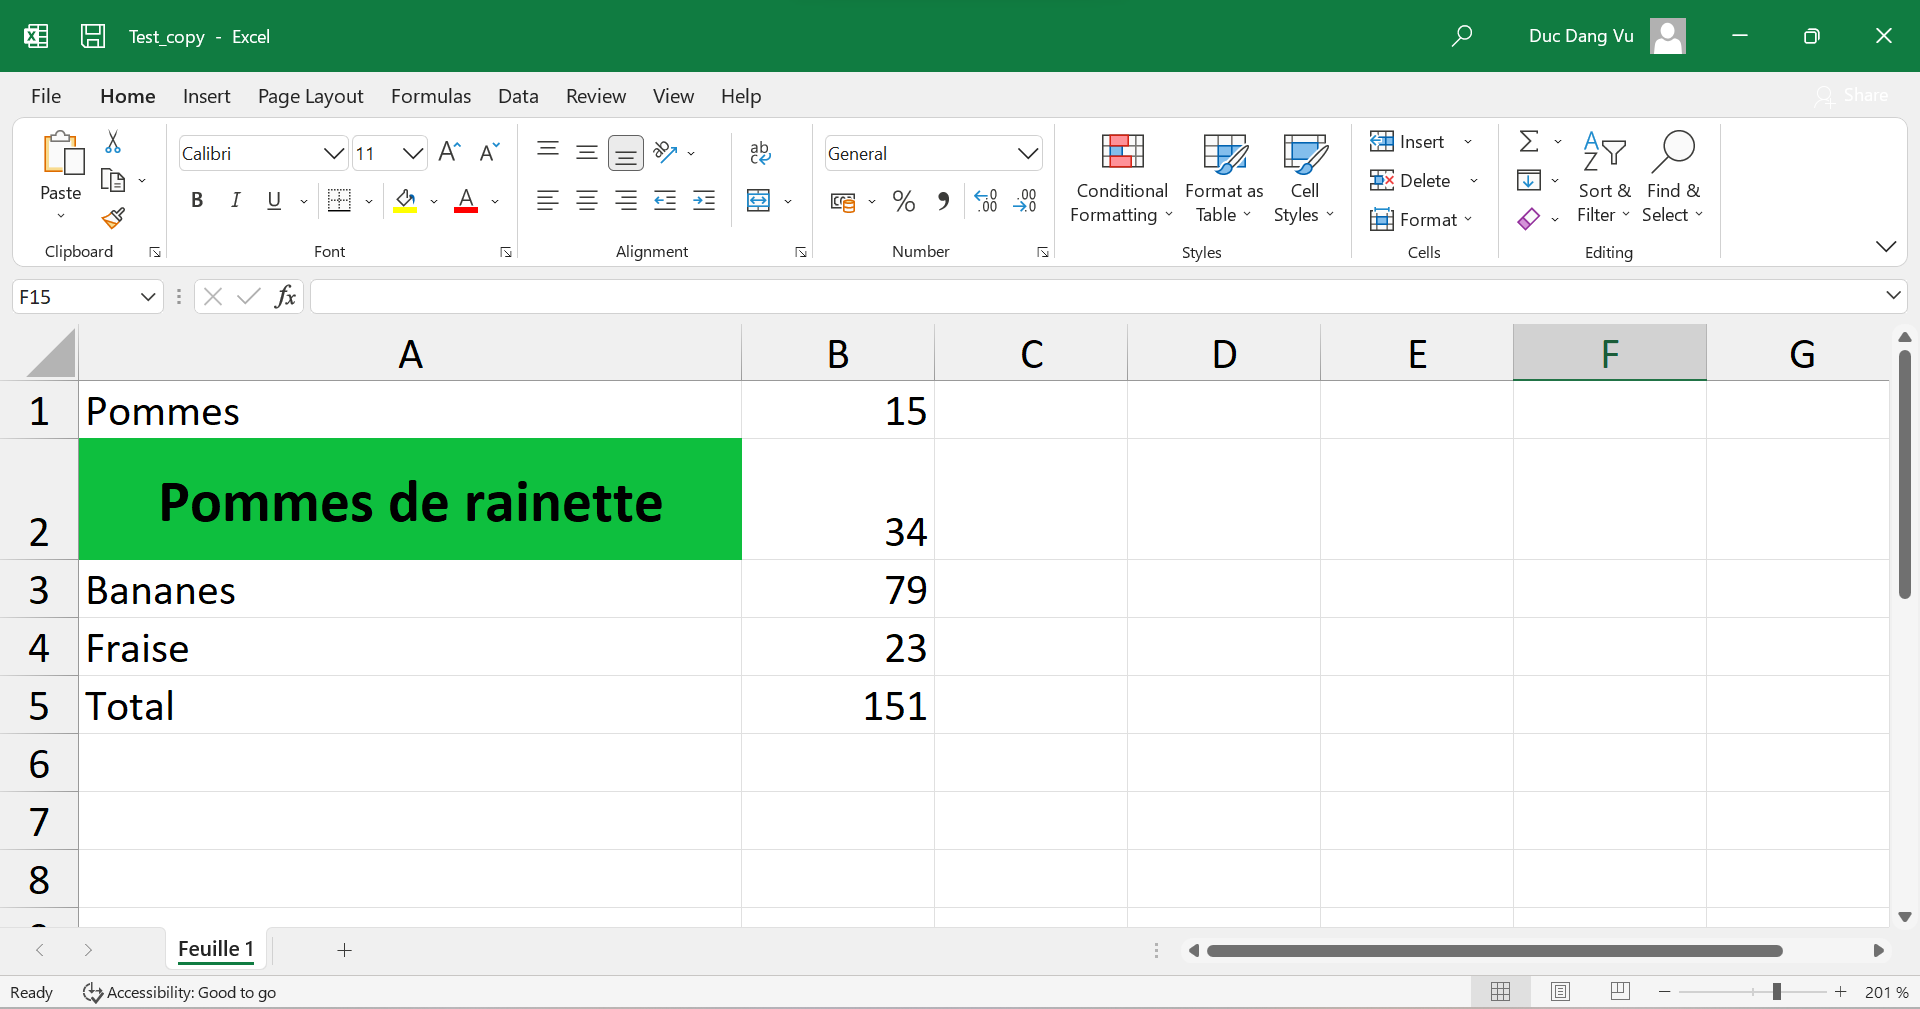
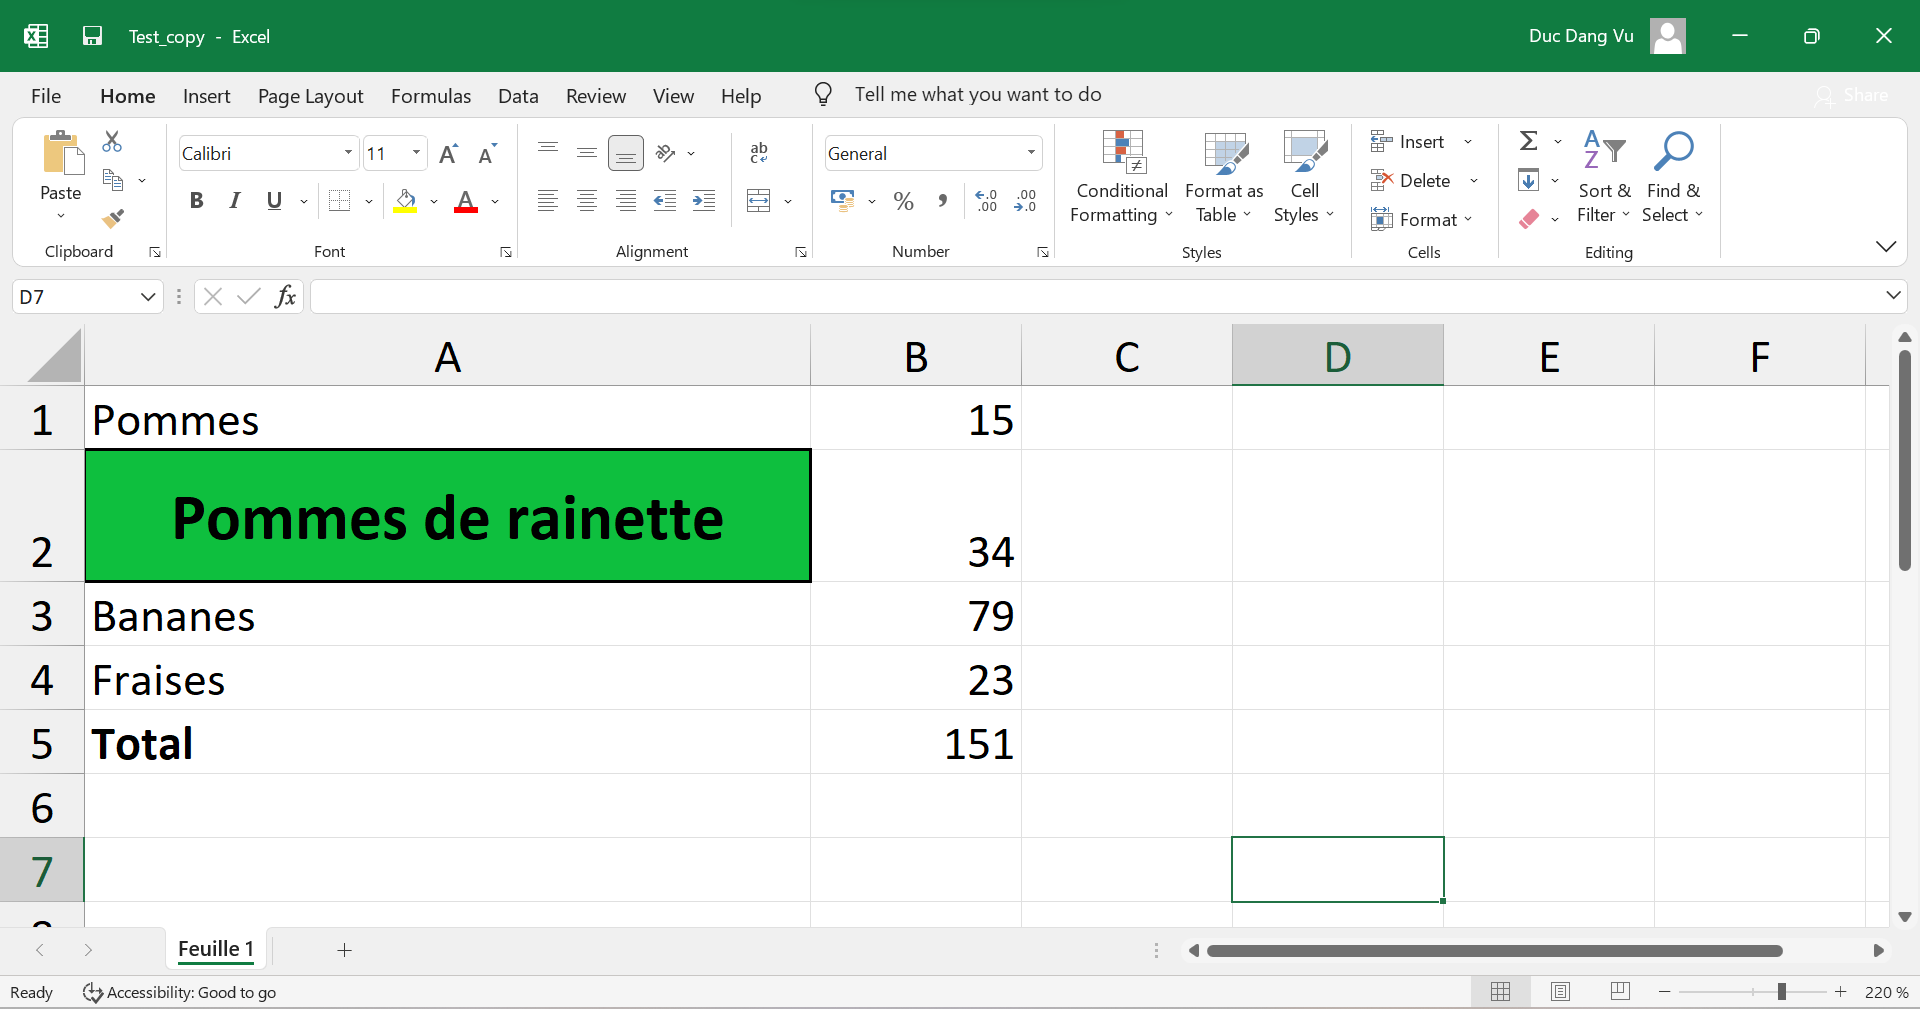
Rectifications POK&MON

diff --git a/Dang-Vu-Duc/mon/temps-1.2/index.md b/Dang-Vu-Duc/mon/temps-1.2/index.md
@@ -5,7 +5,7 @@ title: "Utilisation de Python pour automatiser des tâches sur Excel avec Openpy
 authors:
   - Duc DANG VU
 
-date: 2023-09-18
+date: 2023-16-10
 tags: 
   - "temps 1"
 
@@ -38,7 +38,7 @@ Tout d'abord, il faut installer openpyxl. Pour cela, il faut rentrer la commande
 pip install openpyxl
 ```
 
-Une fois la bibliothèque installée, il faut l'importer au début du code python, et nous sommes prêts! Nous allons dans la suite expliquer les méthodes principales qui permettent de lire et modifier des données dans des fichiers Excel. Dans la suite, les fichiers manipulés doivent se trouver dans le même repertoire que le fichier python exécuté. Le fichier Excel que nous allons manipuler en exemple se nomme *test.xlsx* est contient le simple tableur suivant:
+Une fois la bibliothèque installée, il faut l'importer au début du code python, et nous sommes prêts! Nous allons dans la suite expliquer les méthodes principales qui permettent de lire et modifier des données dans des fichiers Excel. Dans la suite, les fichiers manipulés doivent se trouver dans le même repertoire que le fichier python exécuté. Le fichier Excel que nous allons manipuler en exemple se nomme *test.xlsx* et contient le simple tableur suivant:
 
 ![Image test](Image1.png)
 
@@ -57,14 +57,14 @@ sheet = wb['Feuille 1']
 ```
 
 {% note %}
-Il est également possible de récupérer la feuille active (c'est-à-dire celle qui s'affiche lorsqu'on ouvre le fichier Excel) par la méthode *active* de la classe Workbook: `sheet = wb.active`
+Il est également possible de récupérer la feuille active (c'est-à-dire celle qui s'affiche lorsqu'on ouvre le fichier Excel) par l'attribut *active* de la classe Workbook: `sheet = wb.active`
 {% endnote %}
 
-La variable *sheet* est un objet de la classe **Worksheet**. Cet objet contient notamment les informations de toutes les cellules de la feuille. On récupère une cellule en indiquant directement son nom, ou bien en indiquant son numéro de ligne et de colonne via la méthode *cell*. Notons que ces numéros commencent à 1 (et pas 0) et le numéro de colonne 27 correspond à la colonne "AA". On peut récupérer le contenu de la cellule avec la méthode *value*. On peut également récupérer les coordonnées d'une cellule avec la méthode *coordinate*.
+La variable *sheet* est un objet de la classe **Worksheet**. Cet objet contient notamment les informations de toutes les cellules de la feuille. On récupère une cellule en indiquant directement son nom, ou bien en indiquant son numéro de ligne et de colonne via la méthode *cell*. Notons que ces numéros commencent à 1 (et pas 0) et le numéro de colonne 27 correspond à la colonne "AA". On peut récupérer le contenu de la cellule avec l'attribut *value*. On peut également récupérer les coordonnées d'une cellule avec l'attribut *coordinate*.
 
 ```python
 cell = sheet['A1']
-#ou cell = sheet.cell(row = 1, column = 1)
+# ou cell = sheet.cell(row = 1, column = 1)
 print(cell.value)
 print(cell.coordinate)
 
@@ -121,7 +121,7 @@ Le fichier *test_copy.xlsx* produit est le suivant:
 
 La largeur de la colonne A s'est bien modifiée.
 
-On peut aussi centrer horizontalement et verticalement le contenu d'une cellule avec la classe **Alignment**, changer le style de police du contenu d'une cellule avec la classe **Font** ou encore changer la couleur de fond d'une cellule avec la classe **PatternFill**. Ces classes doivent être importées de la bibliothèque *openpyxl.styles*.
+On peut aussi centrer horizontalement et verticalement le contenu d'une cellule avec la classe **Alignment**, changer le style de police du contenu d'une cellule avec la classe **Font** ou encore changer la couleur de fond d'une cellule avec la classe **PatternFill**. Ces classes doivent être importées de la bibliothèque *openpyxl.styles*. Enfin, il est possible de créer des bordures sur les cellules en modifiant leurs attributs *border* de la classe **Cell**. Encore une fois, il faut importer la classe **Border** depuis la bibliothèque *openpyxl.styles.borders*.
 
 ```python
 from openpyxl.styles import Font, PatternFill, Alignment
@@ -136,6 +136,7 @@ sheet.row_dimensions[2].height = 30
 cell.font = Font(size = 15, bold = True)
 cell.alignment = Alignment(horizontal = "center", vertical = "center")
 cell.fill = PatternFill("solid", start_color = "0ebf3e")
+cell.border = Border(left = Side(style='thick'), right = Side(style='thick'), top = Side(style='thick'), bottom = Side(style='thick'))
 
 wb.save('test_copy.xlsx')
 ```
@@ -144,7 +145,7 @@ Le résultat est le suivant:
 
 ![Image](Image4.png)
 
-Le texte "Pomme de rainette" est bien centré horizontalement et verticalement dans sa cellule et il est bien en gras et de taille 15. De plus, la couleur de la cellule a bien changé.
+Le texte "Pomme de rainette" est bien centré horizontalement et verticalement dans sa cellule et il est bien en gras et de taille 15. De plus, la couleur de la cellule a bien changé et la cellule a bien des bordures épaisses.
 
 {% note %}
 La couleur renseignée en paramètres de la classe **PatternFill** est sous la forme d'un code hex. Ce code peut être déterminé grâce au site suivant: [htmlcolorcode.com](https://htmlcolorcodes.com/)
@@ -155,7 +156,7 @@ Enfin, il est possible de fusionner des cellules ou de les séparer, grâce aux 
 ![Image merge](Image5.png)
 
 {% note %}
-On remarque que seule le contenu de la première cellule est conservé. De plus, les autres cellules de la cellule fusionnée sont des objets de la classe **MergedCell**. Il est possible de récupérer tout ces objets grâce à l'attribut *merged_cell.ranges* de la classe **Worksheet**.
+On remarque que seul le contenu de la première cellule est conservé. De plus, les autres cellules de la cellule fusionnée sont des objets de la classe **MergedCell**. Il est possible de récupérer tout ces objets grâce à l'attribut *merged_cell.ranges* de la classe **Worksheet**.
 {% endnote %}
 
 ## Application des connaissances acquises
@@ -166,10 +167,10 @@ Afin d'appliquer ces connaissances de openpyxl, nous allons travailler sur les f
 
 Le premier fichier Excel sur lequel nous allons travailler est celui contenant la liste des élèves ainsi que leurs choix de cours. Ce fichier est nommé *étudiants_Do-It_23_24.xlsx*. Le deuxième fichier est nommé *edt Do_It.23-24.xlsx*, et contient l'emploi du temps de la promo Do-It 2023/2024 sous forme d'un tableau. On va créer une classe **Create_timetable** qui va contenir les méthodes pour manipuler les emplois du temps. Plus particulièrement, la méthode *create_timetable_automatic* va prendre en argument le nom et le prénom d'un étudiant et va enregistrer son emploi du temps personnalisé. Voici les différentes étapes que le programme va suivre:
 
-- Création d'une liste *courses_name*, qui contient initialement les cours qui sont communs à tout les élèves (par exemple filière métier, les cours de tronc commun, les vacances etc...) On s'assure que tout ces cours sont écrit en lettres minuscules.
+- Création d'une liste *courses_name*, qui contient initialement les cours qui sont communs à tout les élèves (par exemple filière métier, les cours de tronc commun, les vacances etc...) On s'assure que tout ces cours soient écrits en lettres minuscules.
 - Récupération du numéro de ligne correspondant au nom et prénom (donnés en arguments) dans le document Excel *étudiants_Do-It_23_24.xlsx*. Si le nom ou le prénom ne figure pas dans le document, on affiche une erreur et on sort de la méthode.
-- Récupération des cours de l'élèves. Pour cela, on parcourt le numéro de ligne que l'on vient de déterminer et on vérifie si une croix s'y trouve. Si c'est le cas, on remonte jusqu'au nom du cours (ligne 2) et on ajoute à la liste *courses_name* le nom du cours.
-- Suppression des cours que l'élève n'a pas choisi. On parcourt toutes les cellules à l'intérieur du tableau du fichier Excel *edt Do_It.23-24.xlsx*, et on relève son contenu. Si ce contenu n'est pas l'élément vide, on vérifie si le nom du cours est présent dans la liste *courses_name*. Si ce n'est pas le cas, on supprime ce cours. Pour supprimer ce cours, on fait appel on à méthode *remove_course_automatic*, qui suit les étapes suivantes:
+- Récupération des cours de l'élève. Pour cela, on parcourt le numéro de ligne que l'on vient de déterminer et on vérifie si une croix s'y trouve. Si c'est le cas, on remonte jusqu'au nom du cours (ligne 2) et on ajoute à la liste *courses_name* le nom du cours.
+- Suppression des cours que l'élève n'a pas choisi. On parcourt toutes les cellules à l'intérieur du tableau du fichier Excel *edt Do_It.23-24.xlsx*, et on relève son contenu. Si ce contenu n'est pas l'élément vide, on vérifie si le nom du cours est présent dans la liste *courses_name*. Si ce n'est pas le cas, on supprime ce cours. Pour supprimer ce cours, on fait appel à la méthode *remove_course_automatic*, qui suit les étapes suivantes:
   - Séparation des cellules
   - Coloration de chaque cellule en blanc
   - Suppression du contenu de ces cellules.
@@ -203,13 +204,13 @@ La classe **Create_timetable** contient également des méthodes pour ajouter ou
 
 La méthode *remove_course* suit des étapes similaires.
 
-Voici ce que produit la méthode *add_course* quand on exécute la commande `test.add_course("edt de Duc Dang Vu.xlsx")`:
+Voici ce que produit la méthode *add_course* quand on exécute la commande `test.add_course("edt de Duc Dang Vu.xlsx")`, après avoir rentré les informations du cours à rajouter:
 
 ![Image commande](Image7.png)
 
 ![Image edt modifié](Image8.png)
 
-Et voici ce que produit la méthode *remove_course* quand on exécute la commande `test.remove_course("edt de Duc Dang Vu.xlsx")`:
+Et voici ce que produit la méthode *remove_course* quand on exécute la commande `test.remove_course("edt de Duc Dang Vu.xlsx")`, après avoir rentré les informations du cours à supprimer:
 
 ![Image commande 2](Image9.png)
 
